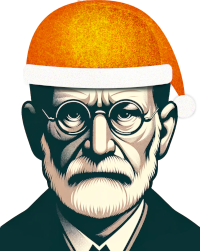
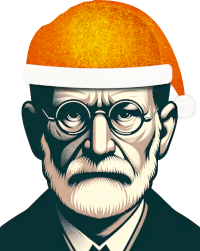
Modify some stuff

Changed region(s): [[0.15, 0.0, 0.48, 0.1673]]

diff --git a/lib/menu/story_pages.dart b/lib/menu/story_pages.dart
@@ -40,9 +40,11 @@ class StoryPages extends StatelessWidget {
                       : null,
                   borderRadius: const BorderRadius.all(Radius.circular(8.0))),
               child: GestureDetector(
+                behavior: HitTestBehavior.opaque,
                   onTap: isWordLevel
                       ? () {
                           levelModel.loadLevel(levelNr);
+                          Navigator.of(context).pop();
                         }
                       : null,
                   child: Text(
@@ -101,18 +103,12 @@ class StoryPages extends StatelessWidget {
               padding: const EdgeInsets.all(16.0),
               child: Column(
                 children: [
-                  Padding(
+                   Padding(
                     padding: const EdgeInsets.all(16.0),
-                    child: ValueListenableBuilder<int>(
-                        builder:
-                            (BuildContext context, int value, Widget? child) {
-                          return LinearProgressIndicator(
-                            minHeight: 8.0,
-                              value: value / totalPages,
-                              borderRadius: BorderRadius.circular(8));
-                        },
-                        valueListenable: levelModel.currentStoryCardPageNr),
-                  ),
+                    child: FilledButton(
+                      onPressed: () => {Navigator.pop(context)},
+                      child: const Text('Back to game')),
+                   ),
                   Expanded(
                     flex: 20,
                     child: PageView(
@@ -125,9 +121,18 @@ class StoryPages extends StatelessWidget {
                       },
                     ),
                   ),
-                  FilledButton(
-                      onPressed: () => {Navigator.pop(context)},
-                      child: const Text('Back to game'))
+                  Padding(
+                    padding: const EdgeInsets.all(16.0),
+                    child: ValueListenableBuilder<int>(
+                        builder:
+                            (BuildContext context, int value, Widget? child) {
+                          return LinearProgressIndicator(
+                            minHeight: 8.0,
+                              value: value / totalPages,
+                              borderRadius: BorderRadius.circular(8));
+                        },
+                        valueListenable: levelModel.currentStoryCardPageNr),
+                  ),
                 ],
               ));
         } else {

diff --git a/lib/game/puzzle.dart b/lib/game/puzzle.dart
@@ -61,9 +61,7 @@ class Puzzle extends StatelessWidget {
 
                     return RotatedBox(
                       quarterTurns: model.quarterTurn,
-                      child: AnimatedContainer(
-                          duration: const Duration(milliseconds: 150),
-                          curve: Curves.easeIn,
+                      child: Container(
                           transformAlignment: Alignment.center,
                           transform: Matrix4.diagonal3(vec3.Vector3(
                               model.scale, model.scale, model.scale)),
@@ -73,9 +71,11 @@ class Puzzle extends StatelessWidget {
                             children: [
                               ClipRRect(
                                 borderRadius: BorderRadius.circular(4),
-                                child: Image.asset(
+                                child:
+                                 Image.asset(
                                   model.picturePath,
                                   fit: BoxFit.contain,
+                                  gaplessPlayback: true,
                                 ),
                               ),
                               ...model.highlightLetters

diff --git a/lib/menu/story_card.dart b/lib/menu/story_card.dart
@@ -10,13 +10,12 @@ class StoryCard extends StatelessWidget {
     return Center(
       child: Card(
         child: Center(
-          child: Padding(
-            padding: const EdgeInsets.all(16),
+          child:Padding(padding: const EdgeInsets.all(16),
             child: RichText(
               text: TextSpan(children: text),
               textAlign: TextAlign.justify,
             ),
-          ),
+            ),
         ),
       ),
     );

diff --git a/lib/game/freud_dialog.dart b/lib/game/freud_dialog.dart
@@ -1,5 +1,4 @@
 import 'package:animated_text_kit/animated_text_kit.dart';
-import 'package:auto_size_text/auto_size_text.dart';
 import 'package:flutter/material.dart';
 import 'package:logging/logging.dart';
 import 'package:operation_hermes/game/model/level_model.dart';
